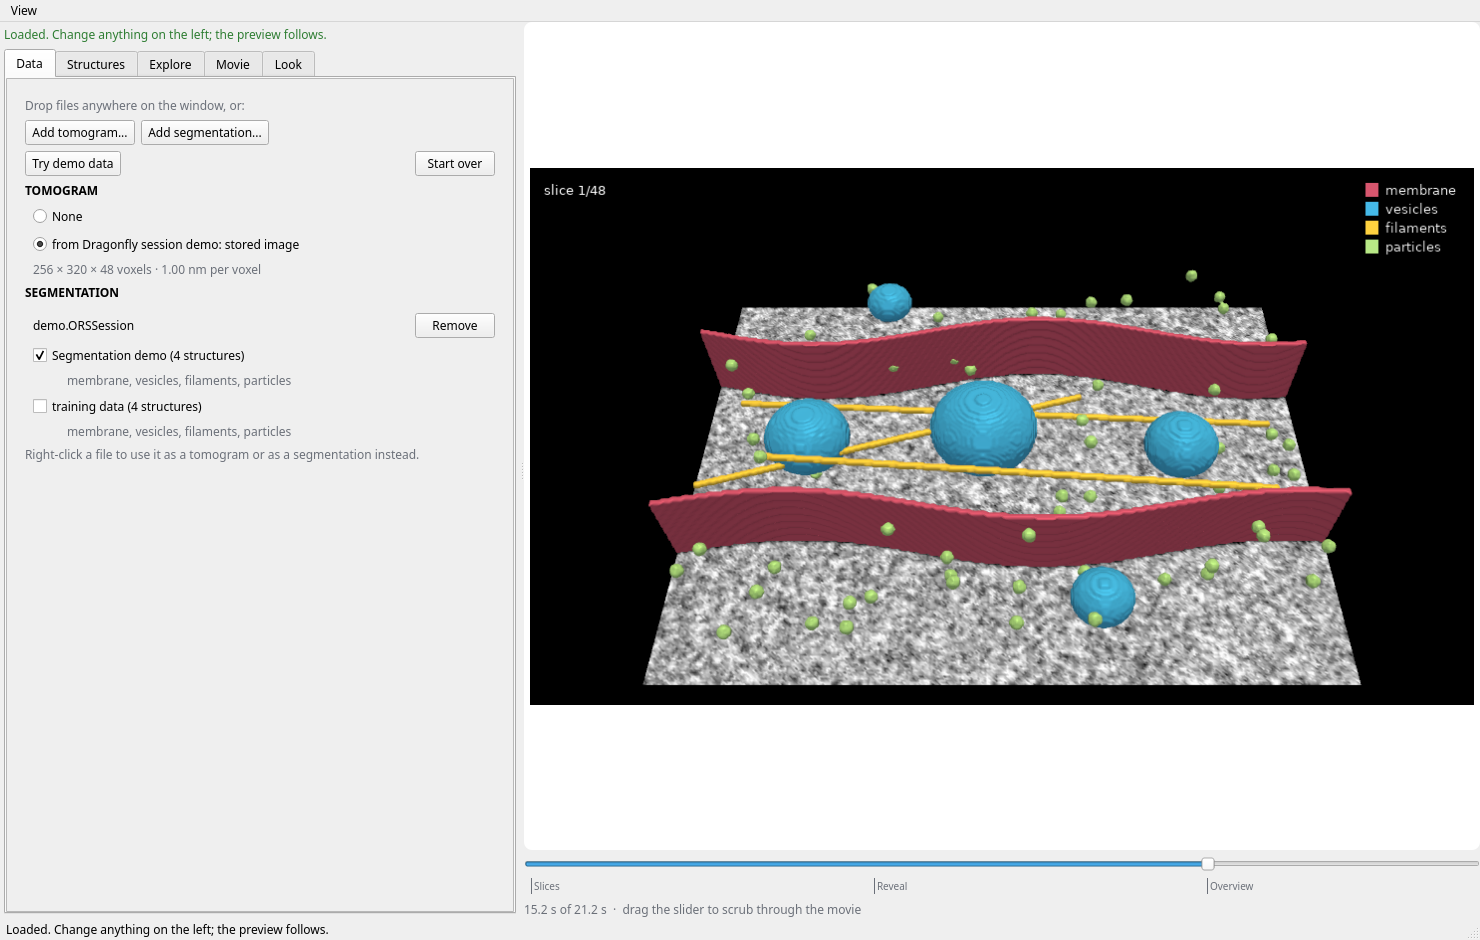
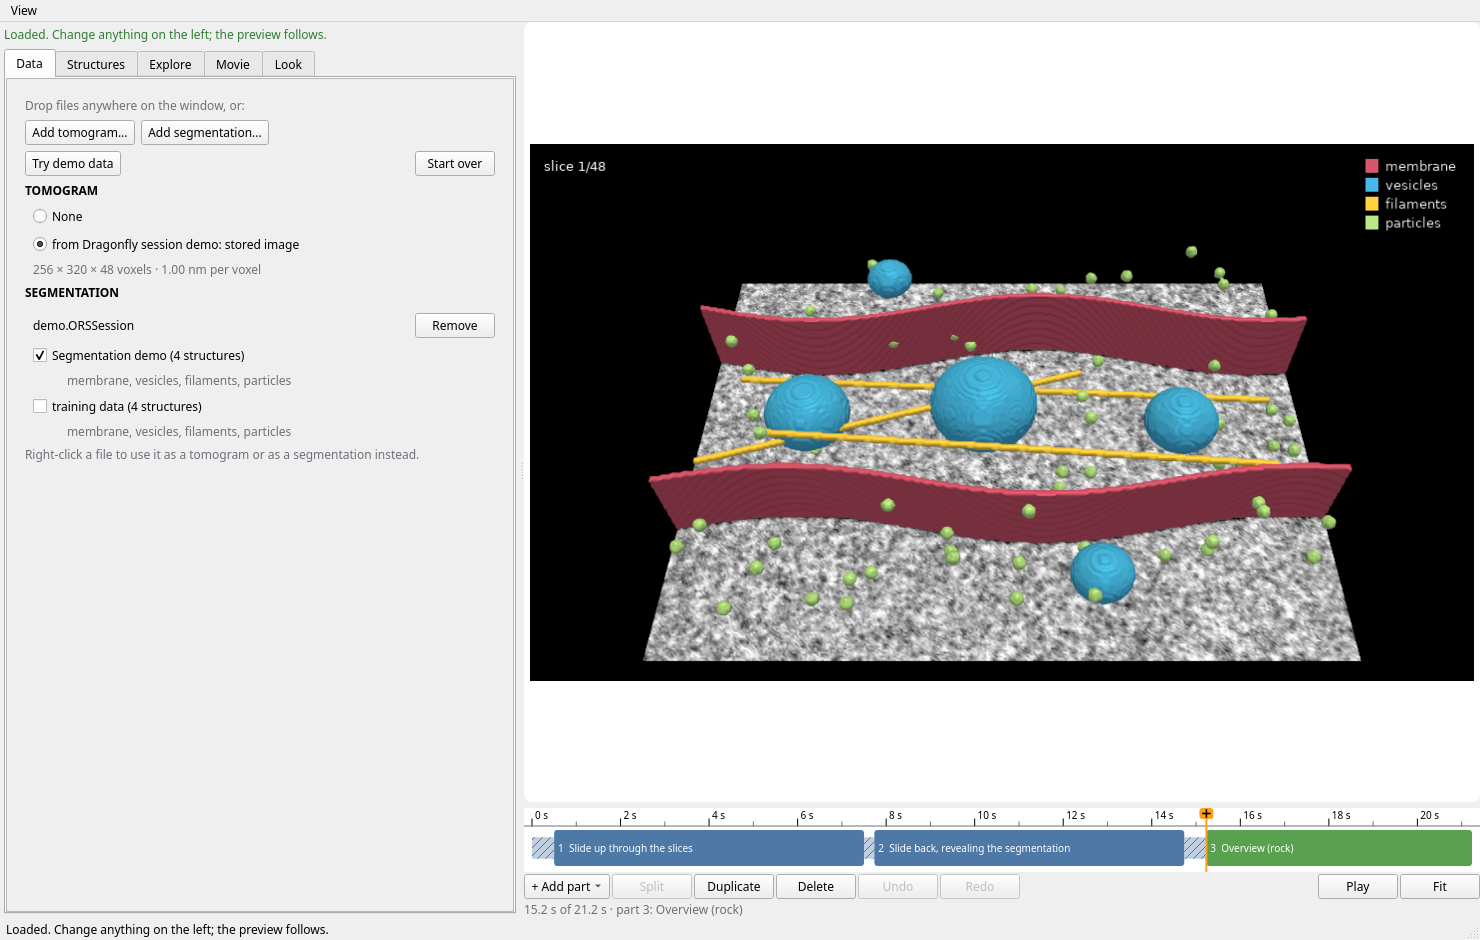
3.3 phase 7: version 3.3.0, change log, README and screenshots
- Version 3.3.0 (tomoreveal/common.py).
- CHANGELOG.md: timeline (T1), removing parts and undo (T2), the parts list
  with drop-down menus (T3), View from here, Play.
- README.md: step 6 rewritten as "Build the movie on the timeline" (adding,
  removing, resizing, moving, splitting parts, the table of mouse and
  keyboard actions, Play), the parts list of the Movie tab with the
  settings of each kind of part, close-ups with the Structure and Object
  lists, View from here; the tomogram step speaks of parts; developer table
  lists gui_timeline.py and gui_movie.py.
- docs/images regenerated from the demo data only (the Data tab picture uses
  a made-up session built from the demo files); new: 09-timeline (five
  parts, a hold between the halves of a split reveal), 10-add-part (the
  + Add part menu with Close-up of open); 04-closeup now shows an open
  close-up in the parts list.
- Close-ups of one object are named "Close-up: one object of vesicles"; the
  timeline now knows the structure names (it showed the caption before).

Changed region(s): [[0.3419, 0.2777, 1.0, 0.7713], [0.3419, 0.8638, 1.0, 0.9872], [0.3419, 0.1543, 1.0, 0.2777]]

diff --git a/tomoreveal/gui_timeline.py b/tomoreveal/gui_timeline.py
@@ -27,7 +27,7 @@ class TimelineCanvas(QtW.QWidget):
     def __init__(self):
         super().__init__()
         self.setMinimumHeight(ROW_TOP + ROW_H + 6); self.setFocusPolicy(QtC.Qt.StrongFocus); self.setMouseTracking(True)
-        self.plan = None; self.spec = None; self.frame = 0; self.selected = None
+        self.plan = None; self.spec = None; self.ds = None; self.frame = 0; self.selected = None
         self.ppf = 1.0; self.offset = 0.0; self.fit = True; self._drag = None
         self.parts = {}  # id -> dict(index, part, start, end, main=(start, count))
 
@@ -36,8 +36,10 @@ class TimelineCanvas(QtW.QWidget):
     def total(self):
         return len(self.plan.frames) if self.plan else 0
 
-    def set_plan(self, plan, spec):
+    def set_plan(self, plan, spec, ds=None):
         self.plan, self.spec = plan, spec; self.parts = {}
+        if ds is not None:
+            self.ds = ds  # for the names of close-ups
         idx = {p["id"]: i for i, p in enumerate(spec.get("shots", []))}
         for sg in plan.segments:
             pid = sg["part"]
@@ -138,7 +140,7 @@ class TimelineCanvas(QtW.QWidget):
                 continue
             x0, x1 = self.x_of(d["main"][0]), self.x_of(d["main"][0] + d["main"][1])
             part = self.part(pid)
-            label = f"{d['index'] + 1}  {part_name(part) if part else ''}"
+            label = f"{d['index'] + 1}  {part_name(part, self.spec, self.ds) if part else ''}"
             r = QtC.QRectF(x0 + 4, ROW_TOP, max(0.0, x1 - x0 - 8), ROW_H)
             if r.width() > 10:
                 p.drawText(r, QtC.Qt.AlignVCenter | QtC.Qt.AlignLeft, p.fontMetrics().elidedText(label, QtC.Qt.ElideRight, int(r.width())))
@@ -315,7 +317,7 @@ class TimelineCanvas(QtW.QWidget):
             part = self.part(pid) if pid else None
             if part:
                 d = self.parts[pid]; fps = self.plan.fps
-                lines = [f"{d['index'] + 1}. {part_name(part)}", f"{(d['main'][1] if d['main'] else 0) / fps:.1f} s"
+                lines = [f"{d['index'] + 1}. {part_name(part, self.spec, self.ds)}", f"{(d['main'][1] if d['main'] else 0) / fps:.1f} s"
                          + (f" (with transitions and pauses {(d['end'] - d['start']) / fps:.1f} s)" if d["end"] - d["start"] != (d["main"] or (0, 0))[1] else "")]
                 if part["type"] == "slide" and d["main"]:
                     a = self.plan.frames[d["main"][0]]["k"]; b = self.plan.frames[d["main"][0] + d["main"][1] - 1]["k"]
@@ -352,8 +354,8 @@ class Timeline(QtW.QWidget):
             setattr(self, name, getattr(c, name))
         self.scroll.valueChanged.connect(self._scrolled)
 
-    def set_plan(self, plan, spec):
-        self.canvas.set_plan(plan, spec); self._sync_scroll(); self._text()
+    def set_plan(self, plan, spec, ds=None):
+        self.canvas.set_plan(plan, spec, ds); self._sync_scroll(); self._text()
 
     def set_frame(self, i):
         self.canvas.frame = int(min(max(0, self.canvas.total - 1), max(0, i))); self.canvas.ensure_visible(); self.canvas.update(); self._text()
@@ -386,5 +388,5 @@ class Timeline(QtW.QWidget):
             if sg["start"] <= f < sg["start"] + sg["count"]:
                 pid = sg["part"]; break
         part = c.part(pid) if pid else None
-        where = f" · part {c.parts[pid]['index'] + 1}: {part_name(part)}" if part and pid in c.parts else ""
+        where = f" · part {c.parts[pid]['index'] + 1}: {part_name(part, c.spec, c.ds)}" if part and pid in c.parts else ""
         self.info.setText(f"{f / fps:.1f} s of {c.total / fps:.1f} s{where}")

diff --git a/tomoreveal/gui.py b/tomoreveal/gui.py
@@ -817,7 +817,7 @@ def build_gui(args):
             self.prev.set_image(to_qimage(img))
             if self.selected_part not in {p["id"] for p in self.spec["shots"]}:
                 self.selected_part = None
-            self.timeline.set_plan(plan, self.spec); self.timeline.set_frame(i); self.timeline.set_selected(self.selected_part)
+            self.timeline.set_plan(plan, self.spec, self.st.ds); self.timeline.set_frame(i); self.timeline.set_selected(self.selected_part)
             vp = self.view_part()
             self.prev.set_note(f"Changing the view of part {self.spec['shots'].index(vp) + 1}" if vp else "")
             empty = not any(p.get("on", True) for p in self.spec["shots"])

diff --git a/tomoreveal/storyboard.py b/tomoreveal/storyboard.py
@@ -241,8 +241,9 @@ def part_name(p, spec=None, ds=None):
             k = ds.id_of(tgt["class"])
             if k is not None:
                 name = class_spec(spec, ds, k).get("name", ds.classes[k]["name"])
-        name = name or p.get("caption") or "structure"
-        return f"Close-up: one {name}" if tgt.get("component") is not None else f"Close-up: {name}"
+        if name is None:
+            return f"Close-up: {p.get('caption') or 'structure'}"
+        return f"Close-up: one object of {name}" if tgt.get("component") is not None else f"Close-up: {name}"
     if t == "hold":
         return "Hold"
     return str(t)

diff --git a/tests/test_parts.py b/tests/test_parts.py
@@ -177,5 +177,5 @@ def test_names(st):
     assert [sb.part_name(p) for p in d["shots"]] == ["Slide up through the slices", "Slide back, revealing the segmentation",
                                                        "Overview (rock)"]
     f = tr.focus_shot({"class": st.ds.key_of(2), "component": 1}, "x")
-    assert sb.part_name(f, d, st.ds) == "Close-up: one vesicles"
+    assert sb.part_name(f, d, st.ds) == "Close-up: one object of vesicles"
     assert sb.part_name(sb.new_part("slide", **{"from": 3, "to": "last"}, structures="above")) == "Slide: slice 4 → last (structures above)"

diff --git a/tomoreveal/gui_movie.py b/tomoreveal/gui_movie.py
@@ -201,7 +201,7 @@ class MovieEditor(QtC.QObject):
     # ---- timeline gestures ----
     def resizing(self, pid, secs):
         sb.set_part(self.spec, pid, seconds=secs)
-        self.win.timeline.set_plan(sb.build_plan(self.spec, self.win.st.ds), self.spec)  # the preview waits for the release
+        self.win.timeline.set_plan(sb.build_plan(self.spec, self.win.st.ds), self.spec, self.win.st.ds)  # the preview waits for the release
 
     def resized(self, pid, secs):
         sb.set_part(self.spec, pid, seconds=secs); self.commit(select=pid)

diff --git a/tomoreveal/common.py b/tomoreveal/common.py
@@ -1,7 +1,7 @@
 """Shared constants and small helpers."""
 
 
-__version__ = "3.2.0"
+__version__ = "3.3.0"
 
 
 ZMAGIC = b"\x28\xb5\x2f\xfd"

diff --git a/README.md b/README.md
@@ -12,7 +12,7 @@ TomoReveal reads these segmentations:
 
 The application is read-only for your data. It does not edit, rename or move tomograms, sessions or segmentations. It writes only the movies, in the folder that you select. It runs on your computer and does not send data to the internet.
 
-This is version 3.2.0. The [change log](CHANGELOG.md) lists the changes in each release.
+This is version 3.3.0. The [change log](CHANGELOG.md) lists the changes in each release.
 
 ## Supported platforms
 
@@ -184,7 +184,7 @@ Three buttons pass what you found to the movie: **Start the slice sweep here**, 
 
 ### 4. Set the view
 
-In the **Movie** tab, click a view button, or use the **Tilt**, **Rotate** and **Zoom** bars. You can also drag in the preview to rotate, and scroll to zoom.
+In the **Movie** tab, set the **main view**: click a view button, or use the **Tilt**, **Rotate** and **Zoom** bars. You can also drag in the preview to rotate, and scroll to zoom.
 
 ### 5. Clip the tomogram
 
@@ -194,35 +194,88 @@ Use **Clip** to keep only a part of the tomogram, as with the clip box in Dragon
 
 **Fit the view to the kept part** moves the camera closer. Remove the tick to keep the camera where it is. **Reset** shows the full tomogram again.
 
-### 6. Add close-ups
+### 6. Build the movie on the timeline
 
-- Click **Zoom** next to a structure to add a close-up of all of that structure.
-- Click **+ Click a structure in the preview**, then click one object (one vesicle, one filament) to add a close-up of that object only.
+The strip under the preview is the **timeline**. Each part of the movie is a coloured block, in the order in which it plays; its width is its duration. Hatched stretches are the automatic camera flights and pauses between parts. The orange line is the **playhead**: the preview shows the frame under it.
 
-For each close-up you can set a caption, the duration, the zoom, the camera movement (orbit, rock or still), what happens to the other structures (grey, hidden or unchanged), and the tomogram (see the next step).
+![The timeline with five parts](docs/images/09-timeline.png)
 
-![A close-up of one object](docs/images/04-closeup.png)
+The default movie has three parts: **Slide up through the slices**, **Slide back, revealing the segmentation**, and **Overview**. You can change all of it:
 
-Drag the bar below the preview to look through the full movie before you make it.
+- **Add a part** with **+ Add part** under the timeline, or with the small **+** on the playhead. The new part goes directly after the part under the playhead. Choose from: Slide up through the slices, Slide back revealing the segmentation, Overview, View from here, **Close-up of** a structure (or of "an object I click in the preview"), and Hold (a pause).
+- **Remove a part** with **Delete** (or the Delete key). Any part can be removed, also the default ones. **Undo** brings it back. **Reset to the default movie** (Movie tab) starts again from the three default parts.
+- **Make a part longer or shorter**: drag the right edge of its block.
+- **Move a part**: drag its block to another place.
+- **Split** cuts a slide or a hold in two at the playhead. Then **+ Add part** puts something between the halves, for example a hold to stop the slice in the middle, or a close-up.
+- Untick a part in the Movie tab to leave it out without removing it.
+- Right-click a block for the same actions.
+
+![Adding a part at the playhead](docs/images/10-add-part.png)
+
+| On the timeline | Does |
+|---|---|
+| Click or drag on the time scale | Moves the playhead; the preview follows |
+| Click a block | Selects the part and opens its settings in the Movie tab |
+| Double-click a block | Opens its settings and shows the Movie tab |
+| Drag the right edge of a block | Changes its duration (0.1 s steps; with Shift 0.5 s) |
+| Drag a block sideways | Moves it; Esc cancels |
+| Right-click a block | Add part after, Duplicate, Split here, Move left, Move right, Switch off, Delete |
+| Ctrl + mouse wheel | Zooms in time; **Fit** shows the whole movie again |
+| Left / Right arrow | One frame back / forward (with Shift: one second) |
+| Up / Down arrow | Previous / next part |
+| Home / End | Start / end of the movie |
+| Space | Play / stop |
+| Delete | Removes the selected part |
+| Ctrl+D | Duplicates it |
+| S | Splits the part under the playhead |
+| Ctrl+Z, Ctrl+Shift+Z (or Ctrl+Y) | Undo, redo |
+
+The keys work while the timeline has the focus (click on it first), so they never change the movie while you type a caption.
+
+**Play** plays the movie in the preview from the playhead, in real time. When drawing is slow (large tomograms, software rendering), it skips frames to keep time; the movie file always has every frame.
+
+#### The parts in the Movie tab
+
+The **Movie** tab lists the same parts, one line each. Click a line to open its settings; the other lines close, and the part is selected on the timeline. Every part has a **Duration**, a **Caption** (text at the bottom while it plays), a **Tomogram** choice (see the next step) and **Transition in** (the seconds of camera flight into it; **automatic**, or 0 to cut straight to it).
+
+| Part | Settings |
+|---|---|
+| Slide | From (first slice, last slice, where the slice is, a slice number), To, Structures (hidden, above the slice, all, leave as they are), Pause before, Pause after |
+| Overview | Camera movement (rock, full spin, still), Rock angle, View (main view or own view) |
+| Close-up | Structure (a list of the loaded structures with their colours), Object (whole structure, the object you picked, or "pick an object in the preview..."), Other structures (grey, hidden, unchanged), Camera movement (orbit, rock, still), Zoom, Tilt |
+| Hold | only the common settings |
+
+![A close-up open in the Movie tab](docs/images/04-closeup.png)
+
+#### Close-ups
+
+- Click **Zoom** next to a structure in the Structures tab, or use **+ Add part > Close-up of**, to add a close-up of all of that structure.
+- Click **+ Click a structure in the preview** (or choose "an object I click in the preview"), then click one object (one vesicle, one filament) to add a close-up of that object only.
+- To change what a close-up shows, open it and choose another **Structure** or **Object** from the lists. The caption follows the structure unless you typed your own.
+- A close-up of a structure that you switched off in the Data tab stays in the list, marked "structure not loaded", and is left out of the movie until the structure is back.
+
+#### View from here
+
+**+ Add part > View from here** adds a still view with its own camera position, taken from the main view. While that part is selected and the playhead is inside it, dragging and scrolling in the preview change the view of this part only (the preview says "Changing the view of part 4"); its line in the Movie tab also has Tilt, Rotate and Zoom bars. Two of these parts in a row make the camera fly from one position to the other.
 
 ### 7. Show, fade or hide the tomogram
 
 In the **Look** tab, **Tomogram slice** sets the default for the whole movie: **Show the tomogram slice**, and its **Opacity** from 0 to 100 %.
 
-In the **Movie** tab, each shot (slide up, reveal, overview and each close-up) has its own **Tomogram** choice:
+In the **Movie** tab, each part of the movie has its own **Tomogram** choice:
 
 - **as default**: as set in the Look tab.
 - **shown**: fully visible.
-- **faded**: see-through, with the opacity that you set for this shot.
+- **faded**: see-through, with the opacity that you set for this part.
 - **hidden**: not shown, so only the structures are visible.
 
-The change happens at the start of the shot, over the **fade** time (0.5 s unless you change it). For example, set the overview to **hidden** to let the tomogram fade out after the reveal. If you hide the tomogram during the slide-up, a grey line warns you that this shot then shows nothing.
+The change happens at the start of the part, over the **fade** time (0.5 s unless you change it). For example, set the overview to **hidden** to let the tomogram fade out after the reveal. If you hide the tomogram during a slide up, a grey line warns you that this part then shows nothing.
 
-![The tomogram choice for each shot](docs/images/07-tomogram.png)
+![The tomogram choice for each part](docs/images/07-tomogram.png)
 
 ### 8. Make the movie
 
-At the end of the **Movie** tab, select the quality, the name and the folder. Click **Make movie**. A bar shows the progress and the time that remains. When the movie is complete, click **Play movie** to open it in your video player, or **Show folder**.
+At the end of the **Movie** tab, select the quality, the name and the folder. Click **Make movie**. The movie is exactly what the timeline shows. A bar shows the progress and the time that remains. When the movie is complete, click **Play movie** to open it in your video player, or **Show folder**.
 
 ![The movie is saved](docs/images/05-movie-saved.png)
 
@@ -364,13 +417,15 @@ The source code is in the `tomoreveal` folder:
 | `dragonfly.py` | Reader for `.ORSSession` files |
 | `volumes.py` | Reading volumes, recognising file types, surfaces |
 | `matching.py` | Lining up a tomogram file with Dragonfly's copy |
-| `storyboard.py` | Camera, clip box, and the frame-by-frame plan of the movie |
+| `storyboard.py` | Camera, clip box, the parts of the movie, editing them, undo, and the frame-by-frame plan |
 | `render.py` | Drawing one frame and writing the movie |
 | `studio.py` | Program state that the window and the commands share |
 | `gui.py` | The desktop window |
 | `gui_data.py` | The Data tab |
 | `gui_explore.py`, `explore.py` | The Explore tab and its slice drawing |
 | `gui_theme.py` | Light and dark themes |
+| `gui_timeline.py` | The timeline under the preview |
+| `gui_movie.py` | Editing the movie (add, delete, split, undo) and the parts list of the Movie tab |
 | `cli.py`, `webapp.py`, `demo.py` | Commands, browser interface, demo data |
 
 To run the tests:

diff --git a/CHANGELOG.md b/CHANGELOG.md
@@ -1,5 +1,13 @@
 # Change log
 
+## 3.3.0
+
+- **Timeline (T1).** The slider under the preview is now a timeline, as in a video editor. Each part of the movie is a block with its duration; transitions and pauses are shown between them. Add parts where the playhead is (slide up, reveal, overview, close-up, hold) with **+ Add part** or the **+** on the playhead; change durations by dragging the edge of a block; reorder by dragging blocks; split a slide or a hold at the playhead. Parts can come in any order: the camera and the slice fly automatically from one part to the next.
+- **Remove parts (T2).** Any part can be deleted, also the default ones, with the Delete button or key or the right-click menu. **Undo** and **Redo** cover every change to the movie settings. **Reset to the default movie** brings back the three default parts.
+- **Parts list with drop-down menus (T3).** The Movie tab lists every part as one line that opens to show its settings and closes again. A close-up's structure and object are chosen from drop-down lists (structures with their colours); new parts are added from a drop-down menu. A close-up of a structure that is switched off is kept and skipped, not deleted; changing an easymode threshold turns close-ups of single objects into close-ups of the whole structure instead of deleting them.
+- **View from here.** Overview parts can have their own camera position; drag in the preview to set it. Two of them in a row make the camera fly from one view to the other.
+- **Play** the movie in the preview, in real time (frames are skipped when drawing is slow).
+
 ## 3.2.0
 
 - **Structure names from Dragonfly (F1).** The Structures tab now always shows the names and colours of the segmentation that is switched on.
